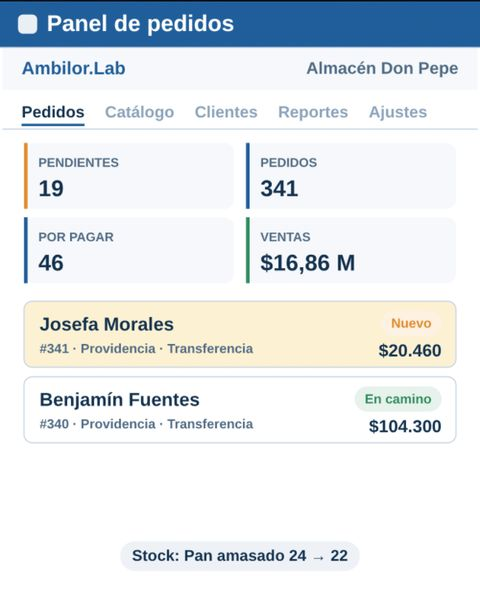
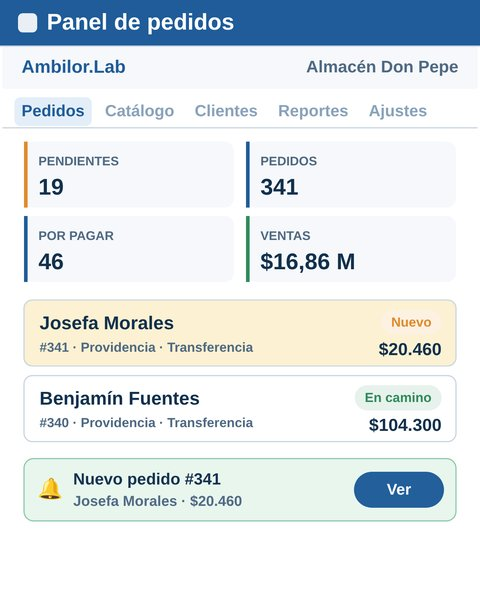
Demo de PedidoApp al día: aviso de pedido nuevo, «Confirmar y pagó» de un toque y descuento por monto
- Paso «Pedido»: barra «Te faltan $X para 5 % de descuento».
- Paso «En vivo»: el aviso real del panel (Nuevo pedido #341, campanita y Ver).
- Paso «WhatsApp»: un toque en la lista, aviso con Avisar y Deshacer, y WhatsApp con el mensaje.
- Textos de los pasos y AL_NOTAS; basico.html con los mismos textos e imágenes nuevas.

Claude-Session: https://claude.ai/code/session_01HuUSFPipRjyUHnabTn6mBT

diff --git a/index.html b/index.html
@@ -2630,7 +2630,7 @@ window.AL_NOTAS = {
   'v2-instala': ['Haz una copia en tu Drive', 'Abre «Configurar herramienta» en el menú', 'Autoriza los permisos una sola vez',
                  'Publica tu panel con «Implementar»', 'Ábrelo y conecta tus fuentes', 'Listo: tu panel quedó instalado'],
   'ped-accion': ['Pedidos repartidos entre chats y notas', 'Tu catálogo en un enlace para compartir', 'Tu cliente elige y envía en un minuto',
-                 'El pedido aparece al instante en tu panel', 'Confirmas y avisas por WhatsApp', 'Ventas y lo más pedido, a la vista'],
+                 'Llega con aviso y campanita a tu panel', 'Un toque: confirmado y pagado', 'Ventas y lo más pedido, a la vista'],
   'ped-instala': ['Haz una copia en tu Drive', 'Publica tu app con «Implementar»', 'Autoriza el acceso una sola vez',
                   'Entra a tu panel con tu clave', 'Tu negocio y tu catálogo', 'Comparte tu formulario con tus clientes']
 };
@@ -6821,13 +6821,13 @@ AL_DEMOS['ped-accion'] = {
       body:'Tus clientes abren el enlace desde el celular y ven tus productos por categoría, los destacados primero y los precios por cantidad. Sin instalar nada.' },
     { a:9.0, b:14.0, short:'Pedido', kicker:'Paso 2: el cliente pide solo',
       title:'Arma su pedido en un minuto',
-      body:'Elige productos, despacho a su comuna o retiro en tienda y forma de pago. Al enviarlo recibe su número de pedido y un enlace para seguirlo.' },
+      body:'Elige productos, despacho a su comuna o retiro en tienda y forma de pago. Si activas el descuento por monto, ve cuánto le falta para lograrlo. Al enviarlo recibe su número de pedido y un enlace para seguirlo.' },
     { a:14.0, b:18.6, short:'En vivo', kicker:'Paso 3: te llega al panel',
       title:'Cada pedido, en vivo en tu panel',
-      body:'El pedido aparece al instante con su total, entrega y pago. El stock se descuenta solo y, si quieres, también te llega por correo.' },
-    { a:18.6, b:23.8, short:'WhatsApp', kicker:'Paso 4: avisa con un toque',
-      title:'Confirmas y avisas por WhatsApp',
-      body:'Al cambiar el estado (Confirmado, En camino, Entregado), el panel abre WhatsApp con el mensaje listo para tu cliente. Tú solo presionas enviar.' },
+      body:'Con el panel abierto, el pedido llega en segundos con un aviso arriba de la lista y una campanita. El stock se descuenta solo y, si quieres, también te llega por correo.' },
+    { a:18.6, b:23.8, short:'WhatsApp', kicker:'Paso 4: un toque y avisas',
+      title:'Confirmas con un toque y avisas por WhatsApp',
+      body:'Desde la lista, un toque confirma el pedido (y lo deja pagado si fue por transferencia). «Avisar» abre WhatsApp con el mensaje listo para tu cliente, y «Deshacer» lo revierte si te equivocaste.' },
     { a:23.8, b:29.4, short:'Reportes', kicker:'Resultado final',
       title:'Sabes cuánto vendes y qué se pide más',
       body:'Ventas por día, ticket promedio, lo más pedido y el resumen de hoy. Exportas todo a CSV cuando lo necesites.',
@@ -6839,12 +6839,20 @@ AL_DEMOS['ped-accion'] = {
     null,
     { keys:[[0.3,900,900],[2.6,600,826],[2.85,600,826],[3.6,900,900]], clicks:[2.75] },
     null,
-    { keys:[[0.3,1000,900],[0.9,1000,470],[1.1,1000,470],[2.6,760,800],[2.85,760,800],[3.6,1000,900]], clicks:[1.0,2.75] },
+    { keys:[[0.3,1000,900],[0.9,1015,305],[1.1,1015,305],[2.6,690,698],[2.85,690,698],[3.6,1000,900]], clicks:[1.0,2.75] },
     { keys:[[0.3,1000,900],[2.4,1050,246],[2.65,1050,246],[3.3,900,900]], clicks:[2.55] }
   ],
   draw: H => { const { C, CW, CH, clamp, ease, easeOut, lerp, rr, txt, wrap, press, btn, base, overlay, dialog, banner, pill, panelBar, celular } = H;
     const TABS = ['Pedidos','Catálogo','Clientes','Reportes','Ajustes'];   // las pestañas del panel real
     const PROD = [['Pan amasado (kg)','$2.490'],['Queso mantecoso','$6.990'],['Café molido 500 g','$5.490'],['Huevos x 30','$7.290']];
+    // «Te faltan $X para 5 % de descuento» (descuento por monto, opcional en Ajustes)
+    function barraDesc(g, x, y, w, h, size, lt){
+      const e = easeOut((lt - 0.3) / 0.4); if (e <= 0) return;
+      g.globalAlpha = e; g.fillStyle = '#f2f7fd'; rr(g, x, y, w, h, 12); g.fill(); g.strokeStyle = C.line; g.lineWidth = 2; rr(g, x, y, w, h, 12); g.stroke();
+      txt(g, 'Te faltan $2.540 para 5 % de descuento', x + 16, y + h*0.4, size, 700, C.ink, 'left', w - 32);
+      g.fillStyle = C.line; rr(g, x + 16, y + h - 14, w - 32, 6, 3); g.fill(); g.fillStyle = C.ok; rr(g, x + 16, y + h - 14, (w - 32) * 0.87 * e, 6, 3); g.fill();
+      g.globalAlpha = 1;
+    }
     function tienda(g, a, x, y, w, h){
       g.fillStyle = C.brand; rr(g, a.x, a.y, a.w, 96, 18); g.fill();
       txt(g, 'Almacén Don Pepe', a.x + 22, a.y + 36, 28, 800, '#fff'); txt(g, 'Todo para tu casa', a.x + 22, a.y + 72, 20, 600, 'rgba(255,255,255,.85)');
@@ -6896,9 +6904,10 @@ AL_DEMOS['ped-accion'] = {
           [['2× Pan amasado (kg)','$4.980'],['1× Queso mantecoso','$6.990'],['1× Café molido 500 g','$5.490']].forEach(([n, p], k) => {
             const y = a.y + 90 + k*62; txt(g, n, a.x, y, 22, 600, C.ink, 'left', 260); txt(g, p, a.x + a.w, y, 22, 800, C.ink, 'right');
           });
+          barraDesc(g, a.x, a.y + 238, a.w, 48, 18, lt);
           const pasos = [['Entrega', lt > 0.8 ? 'Despacho · Providencia $3.000' : 'Elige…'], ['Pago', lt > 1.4 ? 'Transferencia' : 'Elige…']];
           pasos.forEach(([k2, v], k) => {
-            const y = a.y + 300 + k*110;
+            const y = a.y + 318 + k*110;
             txt(g, k2, a.x, y, 20, 700, C.muted);
             g.strokeStyle = (lt > 0.8 + k*0.6) ? C.brand : C.line; g.lineWidth = 3; rr(g, a.x, y + 18, a.w, 58, 12); g.stroke();
             txt(g, v, a.x + 16, y + 48, 21, 700, C.ink, 'left', a.w - 30);
@@ -6934,32 +6943,52 @@ AL_DEMOS['ped-accion'] = {
         };
         const base0 = 410 + 124*n;
         fila(base0, 340, 'Benjamín Fuentes', '$104.300', 'En camino', false);
-        fila(base0 + 124, 339, 'Ignacio Castro', '$53.990', 'Entregado', false);
+        g.globalAlpha = 1 - n; fila(base0 + 124, 339, 'Ignacio Castro', '$53.990', 'Entregado', false); g.globalAlpha = 1;
         if (n > 0) { g.globalAlpha = n; fila(410, 341, 'Josefa Morales', '$20.460', 'Nuevo', true); g.globalAlpha = 1; }
-        const t = easeOut((lt - 1.3) / 0.35) * (1 - ease((lt - 3.6) / 0.4));
-        if (t > 0) { g.globalAlpha = t; g.fillStyle = C.ink; rr(g, 300, 800, 600, 70, 35); g.fill(); txt(g, '🔔 Pedido #341 · Josefa · $20.460', 600, 836, 28, 700, '#fff', 'center'); g.globalAlpha = 1; }
+        const t = easeOut((lt - 1.3) / 0.35);
+        if (t > 0) {   // el aviso del panel: queda hasta que lo ves, con campanita
+          g.globalAlpha = t; const by = 790 + (1 - t)*16, sw = Math.sin(lt*18) * Math.max(0, 1 - (lt - 1.3)/0.9) * 0.35;
+          g.fillStyle = '#e8f6ee'; rr(g, 40, by, 1120, 84, 16); g.fill(); g.strokeStyle = 'rgba(22,138,82,.45)'; g.lineWidth = 2; rr(g, 40, by, 1120, 84, 16); g.stroke();
+          g.save(); g.translate(86, by + 42); g.rotate(sw); txt(g, '🔔', 0, 0, 34, 700, C.ok, 'center'); g.restore();
+          txt(g, 'Nuevo pedido #341 · Josefa Morales · $20.460', 124, by + 42, 28, 800, C.ink, 'left', 780);
+          btn(g, 960, by + 14, 180, 56, 'Ver', 'primary', 0, 26); g.globalAlpha = 1;
+        }
         const s = easeOut((lt - 2.2) / 0.4);
         if (s > 0) { g.globalAlpha = s; pill(g, 1160, 720, 'Stock: Pan amasado 24 → 22', '#eef2f7', C.ink, 24, 46, 'right'); g.globalAlpha = 1; }
       },
       (g, lt) => {
         base(g, 'Panel de pedidos');
         panelBar(g, 'Almacén Don Pepe', TABS, 0);
-        txt(g, 'Pedido #341 · Josefa Morales', 40, 262, 36, 800, C.ink);
-        [['2× Pan amasado (kg)','$4.980'],['1× Queso mantecoso','$6.990'],['1× Café molido 500 g','$5.490'],['Despacho Providencia','$3.000']].forEach(([n, p], k) => { const y = 320 + k*52; txt(g, n, 40, y, 27, 600, C.ink); txt(g, p, 700, y, 27, 800, C.ink, 'right'); });
-        btn(g, 880, 440, 240, 60, 'Confirmar', 'primary', press(lt, 1.0), 28);
-        const d = easeOut((lt - 1.15) / 0.3);
+        const hecho = lt > 1.15;
+        const fila = (y, cli, sub, tot, est, ec, boton) => {
+          g.fillStyle = '#fff'; rr(g, 40, y, 1120, 110, 14); g.fill(); g.strokeStyle = C.line; g.lineWidth = 2; rr(g, 40, y, 1120, 110, 14); g.stroke();
+          txt(g, cli, 70, y + 40, 30, 800, C.ink, 'left', 420); txt(g, sub, 70, y + 78, 22, 600, C.muted, 'left', 440);
+          txt(g, tot, 700, y + 55, 30, 800, C.ink, 'right'); pill(g, 730, y + 33, est, ec === C.ok ? '#e6f2eb' : '#fdf1e2', ec, 22, 44);
+          if (boton) boton(y);
+        };
+        fila(250, 'Josefa Morales', hecho ? '#341 · Providencia · Transferencia · pagado' : '#341 · Providencia · Transferencia · por pagar', '$20.460', hecho ? 'Confirmado' : 'Pendiente', hecho ? C.ok : C.warn,
+          y => { if (!hecho) btn(g, 900, y + 25, 230, 60, 'Confirmar y pagó', 'primary', press(lt, 1.0), 24); else btn(g, 900, y + 25, 230, 60, 'En camino', 'ghost', 0, 24); });
+        fila(380, 'Benjamín Fuentes', '#340 · Ñuñoa · Efectivo', '$104.300', 'En camino', C.ok, y => btn(g, 900, y + 25, 230, 60, 'Entregado', 'ghost', 0, 24));
+        fila(510, 'Ignacio Castro', '#339 · Maipú · Transferencia', '$53.990', 'Entregado', C.ok, null);
+        const t = easeOut((lt - 1.2) / 0.3) * (1 - ease((lt - 2.95) / 0.25));
+        if (t > 0) {   // aviso con acciones, abajo: Avisar abre WhatsApp, Deshacer lo revierte
+          g.globalAlpha = t; g.fillStyle = C.ink; rr(g, 200, 650 + (1 - t)*20, 800, 96, 24); g.fill();
+          txt(g, '#341: Confirmado y pagado', 232, 698 + (1 - t)*20, 27, 700, '#fff', 'left', 340);
+          btn(g, 600, 668 + (1 - t)*20, 180, 60, 'Avisar', 'wa', press(lt, 2.75), 24); g.strokeStyle = 'rgba(255,255,255,.55)'; g.lineWidth = 2; rr(g, 796, 668 + (1 - t)*20, 180, 60, 30); g.stroke(); txt(g, 'Deshacer', 886, 699 + (1 - t)*20, 24, 700, '#fff', 'center');
+          g.globalAlpha = 1;
+        }
+        const d = easeOut((lt - 2.95) / 0.3);
         if (d > 0) {
           overlay(g, d); g.globalAlpha = d;
-          dialog(g, 160, 300, 880, 580);
-          txt(g, '¿Cambiar a Confirmado?', 200, 360, 38, 800, C.ink);
-          txt(g, 'MENSAJE PARA EL CLIENTE', 200, 420, 20, 700, C.soft);
-          g.fillStyle = '#dcf8c6'; rr(g, 200, 446, 800, 230, 18); g.fill();
+          dialog(g, 220, 250, 760, 560);
+          g.fillStyle = C.wa; rr(g, 220, 250, 760, 84, 24); g.fill(); g.fillRect(220, 300, 760, 34);
+          txt(g, 'WhatsApp · Josefa Morales', 256, 292, 28, 800, '#0b3d1f', 'left', 690);
+          g.fillStyle = '#dcf8c6'; rr(g, 260, 370, 680, 250, 18); g.fill();
           const msg = 'Hola Josefa, confirmamos tu pedido #341 por $20.460. Te lo llevamos hoy a Providencia. Sigue tu pedido aquí: ambilor.lab/…';
-          const n = Math.floor(clamp((lt - 1.4) / 0.9) * msg.length);
-          wrap(g, msg.slice(0, n), 226, 488, 750, 27, 600, C.ink, 1.35);
-          if (lt < 3.1) { btn(g, 200, 780, 180, 60, 'Volver', 'ghost', 0, 26); btn(g, 400, 780, 600, 60, 'Confirmar y avisar por WhatsApp', 'wa', press(lt, 2.75), 26); }
-          const b = easeOut((lt - 3.1) / 0.35);
-          if (b > 0) { g.globalAlpha = d * b; banner(g, 200, 780, 800, 60, '✓ Confirmado · WhatsApp abierto con el mensaje', '#1da851'); }
+          const n = Math.floor(clamp((lt - 3.1) / 0.8) * msg.length);
+          wrap(g, msg.slice(0, n), 286, 412, 630, 27, 600, C.ink, 1.35);
+          const b = easeOut((lt - 4.0) / 0.35);
+          if (b > 0) { g.globalAlpha = d * b; banner(g, 260, 700, 680, 64, '✓ Mensaje listo: solo presionas enviar', '#1da851'); }
           g.globalAlpha = 1;
         }
       },
@@ -8040,6 +8069,13 @@ AL_DEMOS['como-se-instala'] = {
     // el formulario del cliente ocupa la tarjeta completa: un celular de frente
     const TELEFONO = !!(window.alFoto && alFoto.tactil());   // en celular y tablet, a pantalla completa
     const cel = (g, top = 18) => { g.clearRect(0, 0, CW, CH); if (TELEFONO) { g.fillStyle = '#ffffff'; g.fillRect(0, 0, CW, CH); return { x: 48, y: 82, w: CW - 96, h: CH - 110 }; } g.fillStyle = '#f4f7fb'; rr(g, 0, 0, CW, CH, 34); g.fill(); return celular(g, 150 + (top - 18)*0.25, top, 500 - (top - 18)*0.5, 982 - top); };
+    function barraDesc(g, x, y, w, h, size, lt){   // «Te faltan $X para 5 % de descuento» (opcional en Ajustes)
+      const e = easeOut((lt - 0.3) / 0.4); if (e <= 0) return;
+      g.globalAlpha = e; g.fillStyle = '#f2f7fd'; rr(g, x, y, w, h, 12); g.fill(); g.strokeStyle = C.line; g.lineWidth = 2; rr(g, x, y, w, h, 12); g.stroke();
+      txt(g, 'Te faltan $2.540 para 5 % de descuento', x + 14, y + h*0.4, size, 700, C.ink, 'left', w - 28);
+      g.fillStyle = C.line; rr(g, x + 14, y + h - 13, w - 28, 6, 3); g.fill(); g.fillStyle = C.ok; rr(g, x + 14, y + h - 13, (w - 28) * 0.87 * e, 6, 3); g.fill();
+      g.globalAlpha = 1;
+    }
     const flota = (g, x, y, s, ink, size, h, align) => { if (TELEFONO) return; g.save(); g.shadowColor = 'rgba(18,48,77,.28)'; g.shadowBlur = 22; g.shadowOffsetY = 8; pill(g, x, y, s, '#fff', ink, size, h, align); g.restore(); };
     return [
       (g, lt) => {
@@ -8085,8 +8121,9 @@ AL_DEMOS['como-se-instala'] = {
           [['2× Pan amasado (kg)','$4.980'],['1× Queso mantecoso','$6.990'],['1× Café molido 500 g','$5.490']].forEach(([n, p], k) => {
             const y = a.y + 92 + k*62; txt(g, n, a.x, y, 24, 600, C.ink, 'left', 290); txt(g, p, a.x + a.w, y, 24, 800, C.ink, 'right');
           });
+          barraDesc(g, a.x, a.y + 250, a.w, 58, 20, lt);
           [['Entrega', lt > 0.8 ? 'Despacho · Providencia $3.000' : 'Elige…'], ['Pago', lt > 1.4 ? 'Transferencia' : 'Elige…']].forEach(([k2, v], k) => {
-            const y = a.y + 300 + k*112;
+            const y = a.y + 342 + k*112;
             txt(g, k2, a.x, y, 22, 700, C.muted);
             g.strokeStyle = (lt > 0.8 + k*0.6) ? C.brand : C.line; g.lineWidth = 3; rr(g, a.x, y + 18, a.w, 62, 12); g.stroke();
             txt(g, v, a.x + 16, y + 50, 23, 700, C.ink, 'left', a.w - 30);
@@ -8123,33 +8160,55 @@ AL_DEMOS['como-se-instala'] = {
         const b0 = 500 + 126*n;
         [[340, 'Benjamín Fuentes', '$104.300', 'En camino'], [339, 'Ignacio Castro', '$53.990', 'Entregado'], [338, 'Martina Rojas', '$31.490', 'Entregado'], [337, 'Tomás Vera', '$12.980', 'Entregado']].forEach((f, k) => {
           const y = b0 + 126*k; if (y > CH) return;   // la lista sigue hasta el borde de la pantalla
-          g.globalAlpha = y + 110 > CH - 60 && k ? 1 - n : 1; fila(y, f[0], f[1], f[2], f[3], false); g.globalAlpha = 1;
+          g.globalAlpha = y + 110 > CH - 250 && k ? 1 - n : 1; fila(y, f[0], f[1], f[2], f[3], false); g.globalAlpha = 1;   // las filas bajo el aviso se van
         });
         if (n > 0) { g.globalAlpha = n; fila(500, 341, 'Josefa Morales', '$20.460', 'Nuevo', true); g.globalAlpha = 1; }
-        const t = easeOut((lt - 1.3) / 0.35) * (1 - ease((lt - 3.6) / 0.4));
-        if (t > 0) { g.globalAlpha = t; g.fillStyle = C.ink; rr(g, 80, CH - 210, 640, 72, 36); g.fill(); txt(g, '🔔 Pedido #341 · Josefa · $20.460', 400, CH - 174, 28, 700, '#fff', 'center', 600); g.globalAlpha = 1; }
+        const t = easeOut((lt - 1.3) / 0.35);
+        if (t > 0) {   // el aviso del panel: queda hasta que lo ves, con campanita
+          g.globalAlpha = t; const by = CH - 236 + (1 - t)*16, sw = Math.sin(lt*18) * Math.max(0, 1 - (lt - 1.3)/0.9) * 0.35;
+          g.fillStyle = '#e8f6ee'; rr(g, 40, by, 720, 104, 16); g.fill(); g.strokeStyle = 'rgba(22,138,82,.45)'; g.lineWidth = 2; rr(g, 40, by, 720, 104, 16); g.stroke();
+          g.save(); g.translate(84, by + 52); g.rotate(sw); txt(g, '🔔', 0, 0, 34, 700, C.ok, 'center'); g.restore();
+          txt(g, 'Nuevo pedido #341', 122, by + 36, 27, 800, C.ink, 'left', 440); txt(g, 'Josefa Morales · $20.460', 122, by + 72, 24, 600, C.muted, 'left', 440);
+          btn(g, 590, by + 22, 150, 60, 'Ver', 'primary', 0, 26); g.globalAlpha = 1;
+        }
         const s = easeOut((lt - 2.2) / 0.4);
         if (s > 0) { g.globalAlpha = s; pill(g, 400, CH - 100, 'Stock: Pan amasado 24 → 22', '#eef2f7', C.ink, 26, 50, 'center'); g.globalAlpha = 1; }
       },
       (g, lt) => {
         base(g, 'Panel de pedidos');
         panelBar(g, 'Almacén Don Pepe', TABS, 0);
-        txt(g, 'Pedido #341 · Josefa Morales', 40, 262, 34, 800, C.ink, 'left', 720);
-        [['2× Pan amasado (kg)','$4.980'],['1× Queso mantecoso','$6.990'],['1× Café molido 500 g','$5.490'],['Despacho Providencia','$3.000']].forEach(([n, p], k) => { const y = 322 + k*54; txt(g, n, 40, y, 28, 600, C.ink); txt(g, p, CW - 40, y, 28, 800, C.ink, 'right'); });
-        btn(g, 40, 560, 720, 72, 'Confirmar', 'primary', press(lt, 1.0), 32);
-        const d = easeOut((lt - 1.15) / 0.3);
+        const hecho = lt > 1.15;
+        const fila = (y, cli, sub, tot, est, ec, boton) => {
+          g.fillStyle = '#fff'; rr(g, 40, y, 720, 170, 14); g.fill(); g.strokeStyle = C.line; g.lineWidth = 2; rr(g, 40, y, 720, 170, 14); g.stroke();
+          txt(g, cli, 66, y + 38, 30, 800, C.ink, 'left', 440); txt(g, tot, 734, y + 38, 30, 800, C.ink, 'right');
+          txt(g, sub, 66, y + 76, 22, 600, C.muted, 'left', 660);
+          pill(g, 66, y + 102, est, ec === C.ok ? '#e6f2eb' : '#fdf1e2', ec, 22, 46);
+          if (boton) boton(y);
+        };
+        fila(250, 'Josefa Morales', hecho ? '#341 · Providencia · Transferencia · pagado' : '#341 · Providencia · Transferencia · por pagar', '$20.460', hecho ? 'Confirmado' : 'Pendiente', hecho ? C.ok : C.warn,
+          y => { if (!hecho) btn(g, 440, y + 98, 294, 58, 'Confirmar y pagó', 'primary', press(lt, 1.0), 25); else btn(g, 440, y + 98, 294, 58, 'En camino', 'ghost', 0, 25); });
+        fila(440, 'Benjamín Fuentes', '#340 · Ñuñoa · Efectivo', '$104.300', 'En camino', C.ok, y => btn(g, 440, y + 98, 294, 58, 'Entregado', 'ghost', 0, 25));
+        if (CH > 1100) fila(630, 'Ignacio Castro', '#339 · Maipú · Transferencia', '$53.990', 'Entregado', C.ok, null);
+        const t = easeOut((lt - 1.2) / 0.3) * (1 - ease((lt - 2.95) / 0.25));
+        if (t > 0) {   // aviso con acciones, abajo: Avisar abre WhatsApp, Deshacer lo revierte
+          const ty = 820 + (1 - t)*20;
+          g.globalAlpha = t; g.fillStyle = C.ink; rr(g, 40, ty, 720, 158, 24); g.fill();
+          txt(g, '#341: Confirmado y pagado', 72, ty + 40, 27, 700, '#fff', 'left', 650);
+          btn(g, 72, ty + 76, 316, 62, 'Avisar', 'wa', press(lt, 2.75), 25); g.strokeStyle = 'rgba(255,255,255,.55)'; g.lineWidth = 2; rr(g, 412, ty + 76, 316, 62, 31); g.stroke(); txt(g, 'Deshacer', 570, ty + 108, 25, 700, '#fff', 'center');
+          g.globalAlpha = 1;
+        }
+        const d = easeOut((lt - 2.95) / 0.3);
         if (d > 0) {
           overlay(g, d); g.globalAlpha = d;
-          dialog(g, 40, 290, 720, 680);
-          txt(g, '¿Cambiar a Confirmado?', 80, 350, 38, 800, C.ink);
-          txt(g, 'MENSAJE PARA EL CLIENTE', 80, 405, 21, 700, C.soft);
-          g.fillStyle = '#dcf8c6'; rr(g, 80, 430, 640, 290, 18); g.fill();
+          dialog(g, 40, 290, 720, 600);
+          g.fillStyle = C.wa; rr(g, 40, 290, 720, 90, 24); g.fill(); g.fillRect(40, 340, 720, 40);
+          txt(g, 'WhatsApp · Josefa Morales', 76, 336, 28, 800, '#0b3d1f', 'left', 650);
+          g.fillStyle = '#dcf8c6'; rr(g, 80, 416, 640, 290, 18); g.fill();
           const msg = 'Hola Josefa, confirmamos tu pedido #341 por $20.460. Te lo llevamos hoy a Providencia. Sigue tu pedido aquí: ambilor.lab/…';
-          const n = Math.floor(clamp((lt - 1.4) / 0.9) * msg.length);
-          wrap(g, msg.slice(0, n), 106, 474, 590, 30, 600, C.ink, 1.35);
-          if (lt < 3.1) { btn(g, 80, 750, 640, 66, 'Volver', 'ghost', 0, 28); btn(g, 80, 834, 640, 76, 'Confirmar y avisar por WhatsApp', 'wa', press(lt, 2.75), 30); }
-          const b = easeOut((lt - 3.1) / 0.35);
-          if (b > 0) { g.globalAlpha = d * b; banner(g, 80, 834, 640, 76, '✓ Confirmado · WhatsApp abierto con el mensaje', '#1da851'); }
+          const n = Math.floor(clamp((lt - 3.1) / 0.8) * msg.length);
+          wrap(g, msg.slice(0, n), 106, 460, 590, 30, 600, C.ink, 1.35);
+          const b = easeOut((lt - 4.0) / 0.35);
+          if (b > 0) { g.globalAlpha = d * b; banner(g, 80, 770, 640, 76, '✓ Mensaje listo: solo presionas enviar', '#1da851'); }
           g.globalAlpha = 1;
         }
       },
@@ -8192,7 +8251,7 @@ AL_DEMOS['como-se-instala'] = {
     null,
     { keys:[[0.3,650,960],[2.6,400,-190],[2.85,400,-190],[3.6,650,960]], clicks:[2.75] },
     null,
-    { keys:[[0.3,650,960],[0.9,400,596],[1.1,400,596],[2.6,400,872],[2.85,400,872],[3.6,650,980]], clicks:[1.0,2.75] },
+    { keys:[[0.3,650,960],[0.9,587,377],[1.1,587,377],[2.6,230,927],[2.85,230,927],[3.6,650,980]], clicks:[1.0,2.75] },
     { keys:[[0.3,650,960],[2.4,311,259],[2.65,311,259],[3.3,650,980]], clicks:[2.55] }
   ];
 

diff --git a/basico.html b/basico.html
@@ -143,17 +143,17 @@ h3{font-size:18px;line-height:1.3;margin:22px 0 6px;color:#fff}
 
   <h2 style="margin-top:30px">App de Pedidos <span class="pronto">Próximamente</span></h2>
   <p class="bajada">Tus clientes piden desde el celular y tú lo gestionas todo desde un panel, sin comisiones por venta.</p>
-  <div class="demo" data-toques=";;50,81;;50,60;39,26" data-frases="Pedidos repartidos entre chats y notas|Tu catálogo en un enlace para compartir|Tu cliente elige y envía en un minuto|El pedido aparece al instante en tu panel|Confirmas y avisas por WhatsApp|Ventas y lo más pedido, a la vista">
-    <div class="pantalla"><img data-src="img/basico/ped-1.jpg?v=5" alt=""><img data-src="img/basico/ped-2.jpg?v=5" alt=""><img data-src="img/basico/ped-3.jpg?v=5" alt=""><img data-src="img/basico/ped-4.jpg?v=5" alt=""><img data-src="img/basico/ped-5.jpg?v=5" alt=""><img data-src="img/basico/ped-6.jpg?v=5" alt=""><span class="toque"></span></div>
+  <div class="demo" data-toques=";;50,81;;73,38;39,26" data-frases="Pedidos repartidos entre chats y notas|Tu catálogo en un enlace para compartir|Tu cliente elige y envía en un minuto|Llega con aviso y campanita a tu panel|Un toque: confirmado y pagado|Ventas y lo más pedido, a la vista">
+    <div class="pantalla"><img data-src="img/basico/ped-1.jpg?v=5" alt=""><img data-src="img/basico/ped-2.jpg?v=5" alt=""><img data-src="img/basico/ped-3.jpg?v=5" alt=""><img data-src="img/basico/ped-4.jpg?v=6" alt=""><img data-src="img/basico/ped-5.jpg?v=6" alt=""><img data-src="img/basico/ped-6.jpg?v=5" alt=""><span class="toque"></span></div>
     <p class="frase"></p>
     <div class="ctrl"><a class="cb" href="#" data-a="-1">&#8249;</a><a class="cb cp" href="#" data-a="p">II</a><a class="cb" href="#" data-a="1">&#8250;</a><span class="barra"><i></i><i></i><i></i><i></i><i></i><i></i></span></div>
   </div>
   <div class="caja"><b>¿Para quién?</b> Negocios que hoy reciben pedidos por WhatsApp: almacenes, panaderías, pastelerías, distribuidoras y emprendimientos.</div>
   <ol class="lista">
     <li><b>Tu tienda en un enlace</b>Tus clientes ven tus productos por categoría y los precios por cantidad. Sin instalar nada.</li>
-    <li><b>Arma su pedido en un minuto</b>Elige productos, entrega y forma de pago, y recibe su número de pedido.</li>
-    <li><b>Cada pedido, en vivo en tu panel</b>Con su total, entrega y pago. El stock se descuenta solo.</li>
-    <li><b>Confirmas y avisas por WhatsApp</b>El panel abre WhatsApp con el mensaje listo para tu cliente.</li>
+    <li><b>Arma su pedido en un minuto</b>Elige productos, entrega y forma de pago, y recibe su número de pedido. Si activas el descuento por monto, ve cuánto le falta.</li>
+    <li><b>Cada pedido, en vivo en tu panel</b>Llega con un aviso y una campanita, con su total, entrega y pago. El stock se descuenta solo.</li>
+    <li><b>Confirmas con un toque y avisas por WhatsApp</b>Un toque lo confirma (y lo deja pagado si fue por transferencia); «Avisar» abre WhatsApp con el mensaje listo.</li>
     <li><b>Sabes cuánto vendes y qué se pide más</b>Ventas por día, ticket promedio y lo más pedido.</li>
   </ol>
   <p class="sig"><a href="#contacto">¿Te interesa? Conversemos →</a></p>
